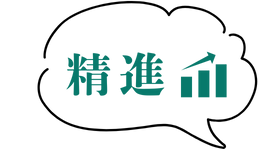
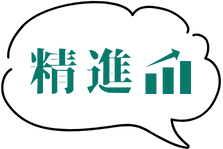
Add Button Design

Changed region(s): [[0.0, 0.0, 0.9955, 1.0], [0.0269, 0.1074, 0.1614, 0.4027]]

diff --git a/css/controller.css b/css/controller.css
@@ -4,17 +4,16 @@ body, html {
     padding: 0;
     width: 100%;
     height: 100%;
-    /* 背景：柔らかいオフホワイトのグラデーション */
     background: linear-gradient(135deg, #f8f9fa 0%, #e9ecef 100%);
-    color: #333333; /* 文字は真っ黒ではなく濃いグレー */
-    font-family: 'M PLUS Rounded 1c', sans-serif; /* 丸ゴシック */
+    color: #333333;
+    font-family: 'M PLUS Rounded 1c', sans-serif;
     overflow: hidden;
     touch-action: manipulation;
 }
 
 /* ステータスバー */
 #status-bar {
-    background-color: #ffffff; /* 白背景 */
+    background-color: #ffffff;
     color: #888;
     text-align: center;
     font-size: 11px;
@@ -40,32 +39,32 @@ body, html {
     flex: 1;
     display: flex;
     flex-direction: column;
-    /* 白いカードのようなデザイン */
     background: #ffffff;
     border-radius: 24px;
     padding: 16px;
-    /* 柔らかく浮き上がる影 */
     box-shadow: 0 10px 30px rgba(0, 0, 0, 0.05), 0 4px 8px rgba(0,0,0,0.03);
     border: 1px solid rgba(255, 255, 255, 0.8);
+    overflow: visible;
 }
 
 .section-title {
     margin: 0 0 12px 0;
     font-size: 13px;
-    color: #999; /* タイトルは控えめに */
+    color: #999;
     letter-spacing: 2px;
     text-align: center;
     font-weight: 800;
     text-transform: uppercase;
 }
 
-/* グリッドレイアウト (2x2) */
+/* グリッドレイアウト */
 .grid-buttons {
     display: grid;
     grid-template-columns: 1fr 1fr;
     grid-template-rows: 1fr 1fr;
     gap: 16px;
     flex: 1;
+    padding-bottom: 5px;
 }
 
 /* --- ボタン共通デザイン --- */
@@ -74,79 +73,94 @@ body, html {
     cursor: pointer;
     font-family: 'M PLUS Rounded 1c', sans-serif;
     font-weight: 800;
-    font-size: 1.2rem;
-    transition: all 0.15s cubic-bezier(0.25, 0.8, 0.25, 1); /* 心地よいバネのような動き */
+    font-size: 2.0rem;
+    transition: transform 0.1s cubic-bezier(0.25, 0.8, 0.25, 1);
     position: relative;
-    overflow: hidden;
     display: flex;
     justify-content: center;
     align-items: center;
-    /* タクタイル感のある影 */
-    box-shadow: 0 4px 12px rgba(0,0,0,0.08);
-}
-
-/* クリック時の動き（共通）：少し沈んで影が小さくなる */
-.action-btn:active {
-    transform: translateY(3px) scale(0.98);
-    box-shadow: 0 2px 4px rgba(0,0,0,0.06);
+    -webkit-tap-highlight-color: transparent;
+    user-select: none;
 }
 
 
-/* --- エリア1: リアクション用 (丸みが強く、ポップな色使い) --- */
+/* =========================================
+   エリア1: リアクション用 (変更なし)
+   ========================================= */
 .reaction-type {
-    border-radius: 30px; /* まんまるく */
+    border-radius: 30px;
     background: #ffffff;
-    border: 3px solid transparent; /* 色の枠線を準備 */
+    border: 3px solid transparent;
+    box-shadow: 0 4px 12px rgba(0,0,0,0.08);
+    overflow: hidden;
 }
 
-/* 各ボタンのアクセントカラー（枠線と文字色） */
-/* 疑問：黄色系 */
-#btn-question {
-    color: #fbc02d;
-    border-color: #fff9c4;
-    background: linear-gradient(to bottom right, #ffffff, #fffde7);
-}
-/* 拍手：オレンジ系 */
-#btn-clap {
-    color: #ff9800;
-    border-color: #ffe0b2;
-    background: linear-gradient(to bottom right, #ffffff, #fff3e0);
-}
-/* 驚く：赤ピンク系 */
-#btn-surprise {
-    color: #ff5252;
-    border-color: #ffcdd2;
-    background: linear-gradient(to bottom right, #ffffff, #ffebee);
-}
-/* 同意：緑系 */
-#btn-okay {
-    color: #4caf50;
-    border-color: #c8e6c9;
-    background: linear-gradient(to bottom right, #ffffff, #e8f5e9);
-}
-
-/* 押した時の光（リアクション用） */
 .reaction-type:active {
-    filter: brightness(0.95); /* 少し暗くして押した感を出す */
+    transform: translateY(4px) scale(0.96);
+    box-shadow: 0 2px 4px rgba(0,0,0,0.06);
+    filter: brightness(0.95);
+}
+
+#btn-question { color: #fbc02d; border-color: #fff9c4; background: linear-gradient(to bottom right, #ffffff, #fffde7); }
+#btn-clap     { color: #ff9800; border-color: #ffe0b2; background: linear-gradient(to bottom right, #ffffff, #fff3e0); }
+#btn-surprise { color: #ff5252; border-color: #ffcdd2; background: linear-gradient(to bottom right, #ffffff, #ffebee); }
+#btn-okay     { color: #4caf50; border-color: #c8e6c9; background: linear-gradient(to bottom right, #ffffff, #e8f5e9); }
+
+.corner-icon {
+    position: absolute;
+    bottom: 8px;
+    right: 8px;
+    width: 32px;
+    height: 32px;
+    object-fit: contain;
+    pointer-events: none;
+    opacity: 0.9;
+    transition: transform 0.2s;
+}
+
+.reaction-type:active .corner-icon {
+    transform: rotate(-15deg) scale(1.4);
 }
 
 
-/* --- エリア2: テキスト用 (少し落ち着いた、フラットに近いデザイン) --- */
+/* =========================================
+   エリア2: テキスト用 (背景なし・画像小さめ)
+   ========================================= */
 .text-type {
-    border-radius: 16px; /* リアクションより少し角ばらせる */
-    background-color: #f1f3f5; /* 薄いグレー背景 */
-    border: 2px solid #e9ecef;
-    color: #555;
-    box-shadow: 0 2px 6px rgba(0,0,0,0.04); /* 影は控えめに */
+    /* 背景・枠・影を完全に消す */
+    background: transparent;
+    border: none;
+    box-shadow: none;
+    outline: none;
+    
+    /* 余白なし（中央揃えはflexで制御） */
+    padding: 0;
+    border-radius: 0; 
+    overflow: visible;
 }
 
+/* CSSのしっぽ削除 */
+.text-type::after {
+    content: none;
+}
+
+/* ★画像の設定（サイズ調整） */
+.center-icon {
+    /* ここで画像の大きさを調整できます (85%くらいがバランス良いです) */
+    width: 100%;
+    height: 100%; 
+    
+    object-fit: contain;
+    pointer-events: none;
+    
+    /* 任意：画像が背景に埋もれる場合は、以下のコメントアウトを外して
+       ドロップシャドウをつけると浮き上がって見えます */
+    /* filter: drop-shadow(0 4px 6px rgba(0,0,0,0.1)); */
+}
+
+/* ★押した時の動き */
 .text-type:active {
-    background-color: #e2e6ea;
-    border-color: #dae0e5;
-}
-
-/* テキストを少し大きく */
-.text-type .text {
-    font-size: 1.3rem;
-    letter-spacing: 0.1rem;
+    /* グッと沈んで縮む */
+    transform: translateY(6px) scale(0.95);
+    filter: brightness(0.9);
 }

diff --git a/index.html b/index.html
@@ -19,15 +19,22 @@
             <div class="grid-buttons reaction-grid">
                 <button id="btn-question" class="action-btn reaction-type" data-label="疑問">
                     <span class="text">疑問</span>
+                    <img src="assets/Controller_Components/question.png" class="corner-icon" alt="">
                 </button>
+                
                 <button id="btn-clap" class="action-btn reaction-type" data-label="拍手">
                     <span class="text">拍手</span>
+                    <img src="assets/Controller_Components/clap.png" class="corner-icon" alt="">
                 </button>
+                
                 <button id="btn-surprise" class="action-btn reaction-type" data-label="驚く">
                     <span class="text">驚く</span>
+                    <img src="assets/Controller_Components/surprise.png" class="corner-icon" alt="">
                 </button>
+                
                 <button id="btn-okay" class="action-btn reaction-type" data-label="同意">
                     <span class="text">同意</span>
+                    <img src="assets/Controller_Components/okey.png" class="corner-icon" alt="">
                 </button>
             </div>
         </section>
@@ -35,17 +42,20 @@
         <section class="control-section">
             <h2 class="section-title">MESSAGE</h2>
             <div class="grid-buttons text-grid">
-                <button id="btn-achive" class="action-btn text-type" data-text="偉業">
-                    <span class="text">偉業</span>
+                <button id="btn-achive" class="action-btn text-type">
+                    <img src="assets/Controller_Components/achive.png" class="center-icon" alt="偉業">
                 </button>
-                <button id="btn-thank" class="action-btn text-type" data-text="感謝">
-                    <span class="text">感謝</span>
+                
+                <button id="btn-thank" class="action-btn text-type">
+                    <img src="assets/Controller_Components/thank.png" class="center-icon" alt="感謝">
                 </button>
-                <button id="btn-cheer" class="action-btn text-type" data-text="応援">
-                    <span class="text">応援</span>
+                
+                <button id="btn-cheer" class="action-btn text-type">
+                    <img src="assets/Controller_Components/cheer.png" class="center-icon" alt="応援">
                 </button>
-                <button id="btn-devotion" class="action-btn text-type" data-text="精進">
-                    <span class="text">精進</span>
+                
+                <button id="btn-devotion" class="action-btn text-type">
+                    <img src="assets/Controller_Components/devotion.png" class="center-icon" alt="精進">
                 </button>
             </div>
         </section>
